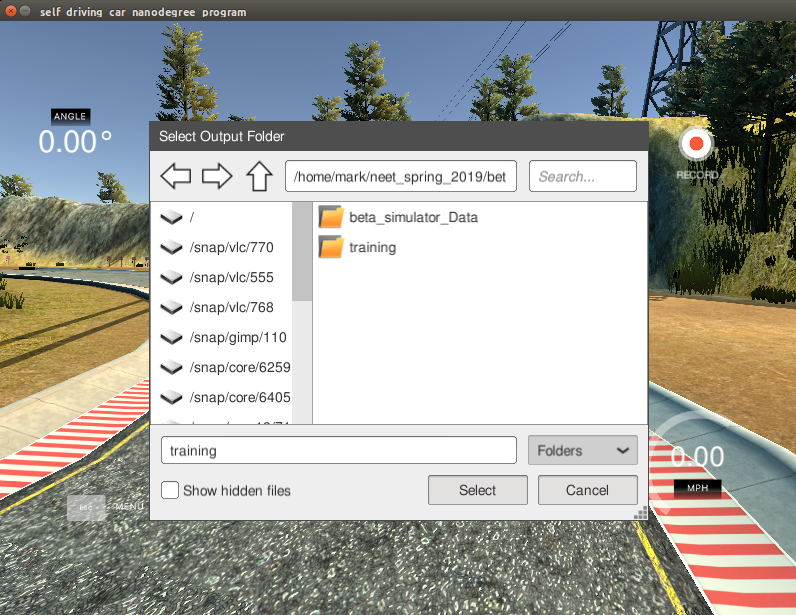
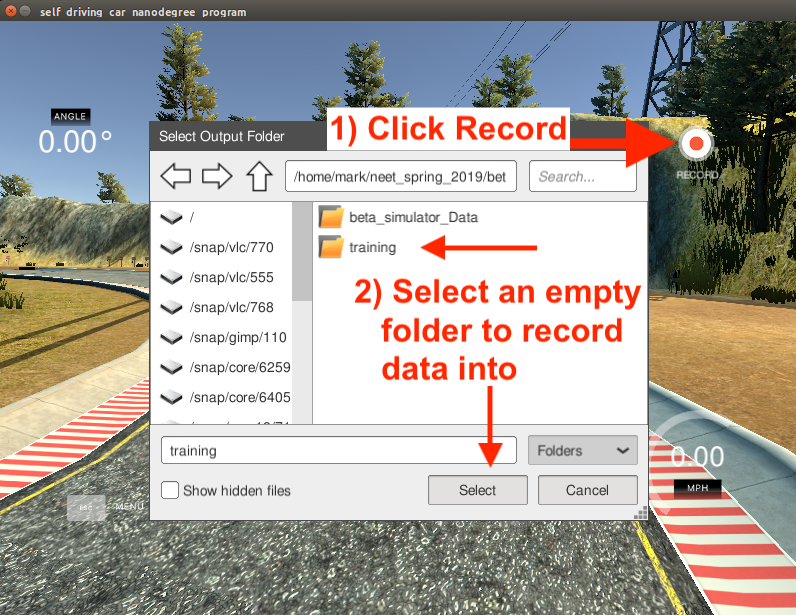
annotate screenshot for recording

diff --git a/docs/imitation_learning.md b/docs/imitation_learning.md
@@ -26,10 +26,9 @@ We will start by driving a simulated car around a virtual racetrack and collecti
 
 The CNN architecture we will use is a slightly modified version of PilotNet from Nvidia:
 
-* <https://devblogs.nvidia.com/deep-learning-self-driving-cars/> Nvidia's blog post introducing the concept.
-* <https://arxiv.org/pdf/1704.07911.pdf> Nvidia's PilotNet paper
-* <https://github.com/naokishibuya/car-behavioral-cloning> (using Udacity's simulator)
-
+* [Nvidia's blog post introducing the concept and their results](https://devblogs.nvidia.com/deep-learning-self-driving-cars/)
+* [Nvidia's PilotNet paper](https://arxiv.org/pdf/1704.07911.pdf)
+* [Udacity's Unity3D-based Self-Driving-Car Simulator](https://github.com/udacity/self-driving-car-sim) and [Naoki Shibuya's `drive.py` contributions](https://github.com/naokishibuya/car-behavioral-cloning) 
 
 ## Part 1: Install required Python libraries and the simulation environment
 
@@ -58,7 +57,7 @@ We will use three cameras mounted on the virtual and real-world RACECAR to colle
 
 Let us take a closer look at a Keras implementation of the CNN architecture:
 
-![Architecture](https://devblogs.nvidia.com/parallelforall/wp-content/uploads/2016/08/cnn-architecture-624x890.png)
+![Architecture](https://devblogs.nvidia.com/parallelforall/wp-content/uploads/2016/08/cnn-architecture-624x890.png){: style="width:50%;" }
 
 
 Using TensorFlow's *Keras API*, let us look at an implementation of the above network in code:
@@ -104,7 +103,7 @@ def build_model(dropout_rate=0.5):
 
 ## Part 3: Training the Model
 
-![](img/record.png)
+![](img/record.png){: style="width:80%;" }
 
 
 ### Servo histogram
